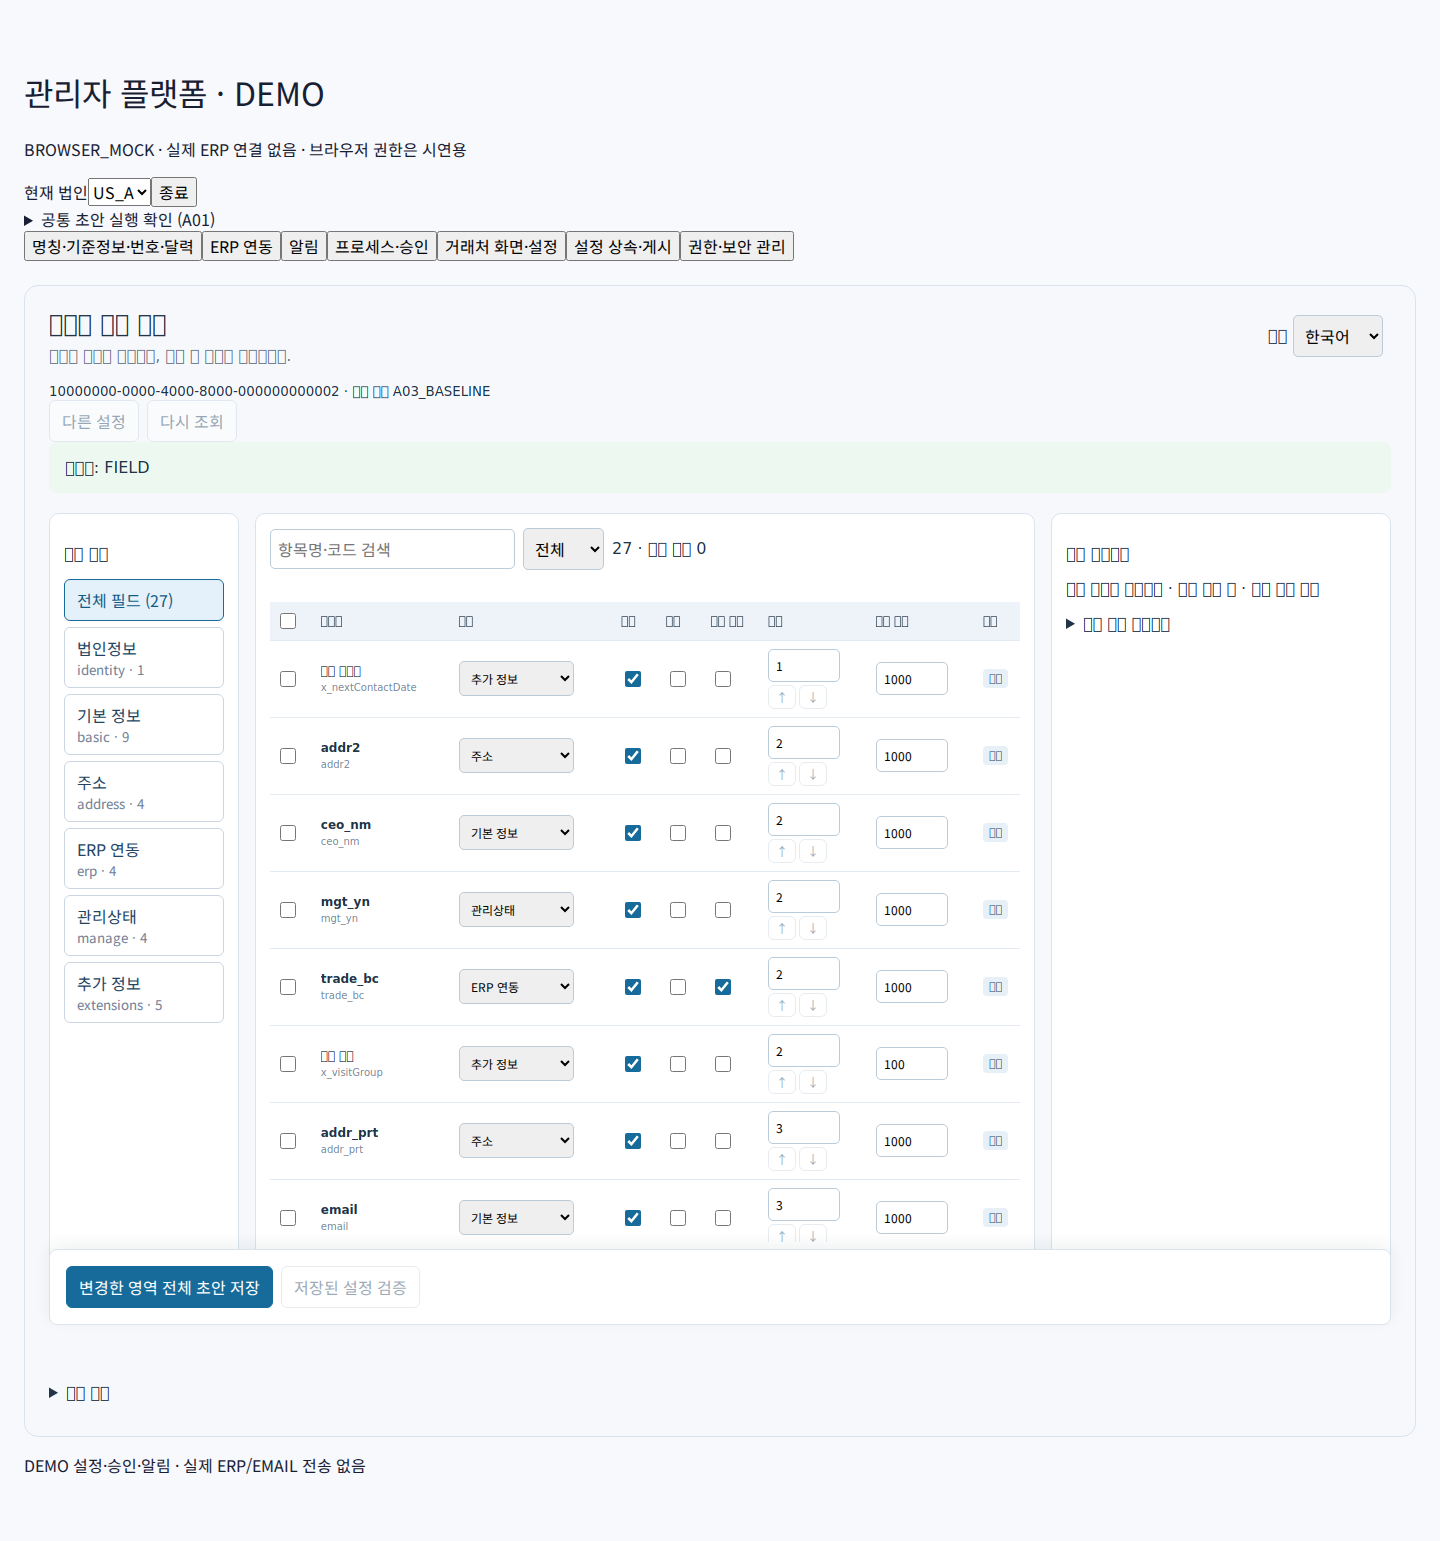
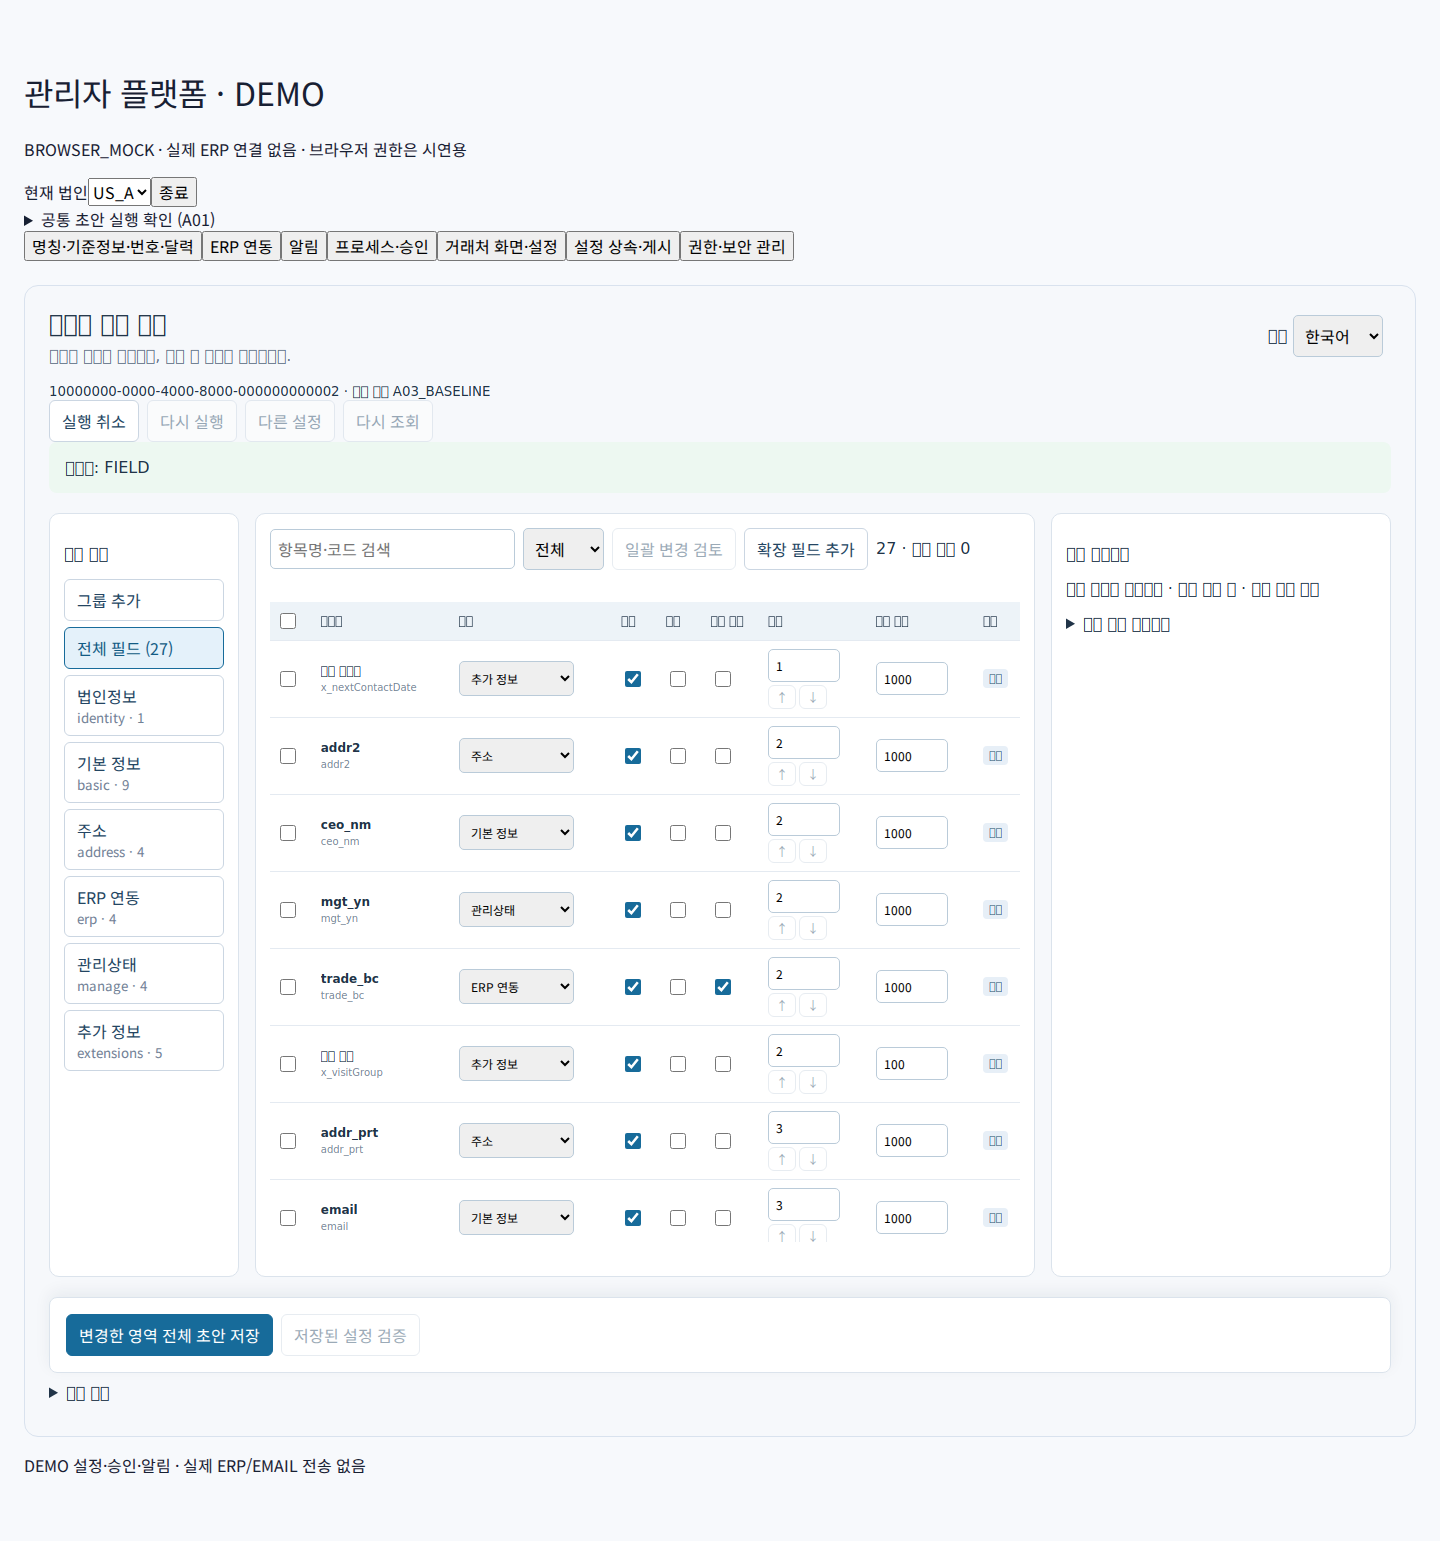
feat(admin): U03 atomic bulk edits and group operations

diff --git a/frontend/src/admin/AccountDesigner.tsx b/frontend/src/admin/AccountDesigner.tsx
@@ -8,6 +8,7 @@ import {DesignerWorkspace,parentConfig} from './designer/model';
 import {FieldGrid} from './designer/FieldGrid';
 import {FieldDetailPanel} from './designer/FieldDetailPanel';
 import {Lang,text,fieldLabel} from './designer/labels';
+import {BulkPanel,GroupPanel,AddFieldPanel} from './designer/EditActions';
 import {SyntheticPreview} from './SyntheticPreview';
 import './designer/designer.css';
 const advancedPaths=['features','menus','rules','conditions','list-views','actions'];
@@ -17,7 +18,7 @@ export function AccountDesigner({client,companyId}:{client:HttpAdminClient;compa
 }
 function DesignerEditor({client,companyId,advanced}:{client:HttpAdminClient;companyId:string;advanced:()=>void}){
  const w=useMemo(()=>new DesignerWorkspace(client,companyId),[client,companyId]);useSyncExternalStore(w.subscribe,w.snapshot);
- const [lang,setLang]=useState<Lang>('ko-KR'),[group,setGroup]=useState(''),[search,setSearch]=useState(''),[filter,setFilter]=useState('any'),[selected,setSelected]=useState<string[]>([]),[detail,setDetail]=useState(''),[mobile,setMobile]=useState('fields');const t=text(lang);
+ const [lang,setLang]=useState<Lang>('ko-KR'),[group,setGroup]=useState(''),[search,setSearch]=useState(''),[filter,setFilter]=useState('any'),[selected,setSelected]=useState<string[]>([]),[detail,setDetail]=useState(''),[mobile,setMobile]=useState('fields'),[action,setAction]=useState('');const t=text(lang);
  useEffect(()=>{void w.load().catch(e=>w.fail(e));return()=>w.dispose();},[w]);
  useEffect(()=>setSelected([]),[group,search,filter]);
  useDirtyEditor(w.dirty.length>0,()=>w.save(),e=>{w.error=e;w.emit();},w.error);
@@ -26,12 +27,15 @@ function DesignerEditor({client,companyId,advanced}:{client:HttpAdminClient;comp
  const c=w.working,sections=c['SCREEN:account'].sections,fields=c['FIELD:account'].fields,rows=fields.filter((f:any)=>(!group||f.sectionId===group)&&(!search||(f.key+' '+fieldLabel(c,f.labelKey,lang)).toLowerCase().includes(search.toLowerCase()))&&(filter==='any'||filter==='changed'&&canonical(f)!==canonical(w.loaded['FIELD:account'].fields.find((x:any)=>x.key===f.key))||filter=== 'visible'&&f.visible)).sort((a:any,b:any)=>a.order-b.order||a.key.localeCompare(b.key));
  const edit=(n:any)=>{try{w.edit(n);}catch(e){w.fail(e);}};
  return <section className="designer-shell configuration-page"><header className="designer-header"><div><h2>{t('title')}</h2><p className="designer-subtitle">{t('subtitle')}</p><small>{companyId} · {t('version')} {w.state.currentVersionId||'A03_BASELINE'}</small></div><label>{t('locale')}<select value={lang} onChange={e=>setLang(e.target.value as Lang)}><option value="ko-KR">{t('korean')}</option><option value="en-US">English</option></select></label></header>
- <div className="designer-toolbar"><button disabled={!!w.dirty.length} onClick={advanced}>{t('advanced')}</button><button disabled={w.busy||!!w.dirty.length} onClick={()=>void run(()=>w.load())}>{t('reload')}</button></div>
+ <div className="designer-toolbar"><button disabled={w.busy||w.blocked||!w.history.length} onClick={()=>w.undo()}>{t('undo')}</button><button disabled={w.busy||w.blocked||!w.future.length} onClick={()=>w.redo()}>{t('redo')}</button><button disabled={!!w.dirty.length} onClick={advanced}>{t('advanced')}</button><button disabled={w.busy||!!w.dirty.length} onClick={()=>void run(()=>w.load())}>{t('reload')}</button></div>
  {w.error&&<div role="alert" className="designer-error">{w.error}</div>}<div role="status" aria-live="polite">{w.dirty.length?t('dirty')+': '+w.dirty.join(', '):t('saved')}</div>
  <nav className="designer-mobile-nav">{['groups','fields','preview'].map(k=><button key={k} aria-pressed={mobile===k} onClick={()=>setMobile(k)}>{t(k)}</button>)}</nav>
- <div className="designer-layout"><aside className={'designer-groups '+(mobile!=='groups'?'mobile-hidden':'')}><h3>{t('groups')}</h3><button aria-pressed={!group} onClick={()=>setGroup('')}>{t('all')} ({fields.length})</button>{sections.map((s:any)=><button key={s.id} aria-pressed={group===s.id} onClick={()=>{setGroup(s.id);setMobile('fields');}}>{fieldLabel(c,s.titleKey,lang)}<small>{s.id} · {fields.filter((f:any)=>f.sectionId===s.id).length}</small></button>)}</aside>
- <div className={'designer-editor '+(mobile!=='fields'?'mobile-hidden':'')}><div className="designer-toolbar"><input aria-label={t('search')} placeholder={t('search')} value={search} onChange={e=>setSearch(e.target.value)}/><select aria-label={t('filter')} value={filter} onChange={e=>setFilter(e.target.value)}>{['any','changed','visible'].map(k=><option key={k} value={k}>{t(k)}</option>)}</select><span>{rows.length} · {t('selected')} {selected.length}</span></div><fieldset disabled={w.busy||w.blocked} style={{border:0,padding:0,minWidth:0}}><FieldGrid config={c} loaded={w.loaded} parent={parentConfig(w.state)} rows={rows} selected={selected} setSelected={setSelected} edit={edit} detail={setDetail} group={group} reorderEnabled={false} lang={lang}/></fieldset></div>
+ <div className="designer-layout"><aside className={'designer-groups '+(mobile!=='groups'?'mobile-hidden':'')}><h3>{t('groups')}</h3><button disabled={w.busy||w.blocked} onClick={()=>setAction('addGroup')}>{t('addGroup')}</button>{group&&<button disabled={w.busy||w.blocked} onClick={()=>setAction('editGroup')}>{t('editGroup')}</button>}<button aria-pressed={!group} onClick={()=>setGroup('')}>{t('all')} ({fields.length})</button>{sections.map((s:any)=><button key={s.id} aria-pressed={group===s.id} onClick={()=>{setGroup(s.id);setMobile('fields');}}>{fieldLabel(c,s.titleKey,lang)}<small>{s.id} · {fields.filter((f:any)=>f.sectionId===s.id).length}</small></button>)}</aside>
+ <div className={'designer-editor '+(mobile!=='fields'?'mobile-hidden':'')}><div className="designer-toolbar"><input aria-label={t('search')} placeholder={t('search')} value={search} onChange={e=>setSearch(e.target.value)}/><select aria-label={t('filter')} value={filter} onChange={e=>setFilter(e.target.value)}>{['any','changed','visible'].map(k=><option key={k} value={k}>{t(k)}</option>)}</select><button disabled={!selected.length||w.busy||w.blocked} onClick={()=>setAction('bulk')}>{t('bulk')}</button><button disabled={w.busy||w.blocked} onClick={()=>setAction('addField')}>{t('addField')}</button><span>{rows.length} · {t('selected')} {selected.length}</span></div><fieldset disabled={w.busy||w.blocked} style={{border:0,padding:0,minWidth:0}}><FieldGrid config={c} loaded={w.loaded} parent={parentConfig(w.state)} rows={rows} selected={selected} setSelected={setSelected} edit={edit} detail={setDetail} group={group} reorderEnabled={!!group&&!search&&filter==='any'} lang={lang}/></fieldset></div>
  <aside className={'designer-preview '+(mobile!=='preview'?'mobile-hidden':'')}><h3>{t('preview')}</h3><p>{t('previewHint')}</p><SyntheticPreview config={c} companyId={companyId}/></aside></div>
  <footer className="designer-footer"><button disabled={w.busy||w.blocked||!w.dirty.length} className="primary" onClick={()=>void run(()=>w.save())}>{t('save')}</button><button disabled={w.busy||w.blocked||!!w.dirty.length} onClick={()=>void run(()=>w.check())}>{t('validate')}</button>{Object.entries(w.statuses).map(([d,s])=><span key={d}>{d}: {t(s)}</span>)}</footer>
+ {action==='bulk'&&<BulkPanel config={c} keys={selected} lang={lang} apply={edit} close={()=>setAction('')}/>}
+ {['addGroup','editGroup'].includes(action)&&<GroupPanel config={c} id={action==='editGroup'?group:''} lang={lang} apply={n=>{edit(n);if(!n['SCREEN:account'].sections.some((g:any)=>g.id===group))setGroup('');}} close={()=>setAction('')}/>}
+ {action==='addField'&&<AddFieldPanel config={c} group={group} lang={lang} apply={edit} close={()=>setAction('')}/>}
  {detail&&<FieldDetailPanel config={c} fieldKey={detail} lang={lang} apply={edit} close={()=>setDetail('')}/>}<details><summary>{t('help')}</summary><p>{t('helpText')}</p></details></section>;
 }

diff --git a/frontend/src/admin/designer/EditActions.tsx b/frontend/src/admin/designer/EditActions.tsx
@@ -1,0 +1,9 @@
+import React,{useState} from 'react';
+import {validateAccountConfig,conditionFields} from '@dio-crm/contracts/admin';
+import {Config,bulkFields,removeGroup} from './model';
+import {Lang,text} from './labels';
+import {Modal} from './Modal';
+export function fieldReferences(c:Config,key:string){return [...c['RULE:account'].rules.filter((r:any)=>conditionFields(r.condition).includes(key)||r.effects.some((e:any)=>e.target===key)).map((r:any)=>'RULE:'+r.id),...c['LIST_VIEW:account'].views.filter((v:any)=>v.columns.includes(key)||v.sort.some((s:any)=>s.field===key)||conditionFields(v.filter).includes(key)).map((v:any)=>'LIST_VIEW:'+v.key),...c['ACTION:account'].actions.filter((a:any)=>conditionFields(a.condition).includes(key)).map((a:any)=>'ACTION:'+a.key)];}
+export function BulkPanel({config,keys,lang,apply,close}:{config:Config;keys:string[];lang:Lang;apply:(c:Config)=>void;close:()=>void}){const t=text(lang),[patch,setPatch]=useState<Record<string,string>>({}),[error,setError]=useState('');return <Modal title={t('bulkTitle')} onClose={close}><p>{t('selected')}: {keys.length}</p><p>{keys.join(', ')}</p>{['visible','required','readOnly'].map(k=><label key={k}>{t(k)}<select aria-label={t(k)} value={patch[k]||'keep'} onChange={e=>setPatch({...patch,[k]:e.target.value})}><option value="keep">{t('keep')}</option><option value="true">{t('yes')}</option><option value="false">{t('no')}</option></select></label>)}{error&&<p role="alert">{error} · {keys.join(', ')}</p>}<button onClick={()=>{try{const p=Object.fromEntries(Object.entries(patch).filter(([,v])=>v!=='keep').map(([k,v])=>[k,v==='true']));if(Object.keys(p).length)apply(bulkFields(config,keys,p));close();}catch(e){setError((e as Error).message);}}}>{t('apply')}</button><button onClick={close}>{t('cancel')}</button></Modal>;}
+export function GroupPanel({config,id,lang,apply,close}:{config:Config;id:string;lang:Lang;apply:(c:Config)=>void;close:()=>void}){const t=text(lang),s=config['SCREEN:account'],old=s.sections.find((g:any)=>g.id===id),[row,setRow]=useState(old?{...old}:{id:'group_'+Date.now().toString(36),tabId:s.tabs[0].id,titleKey:'group.new',order:100,columns:2}),[target,setTarget]=useState(''),[error,setError]=useState('');const commit=(n:Config)=>{try{validateAccountConfig(n);apply(n);close();}catch(e){setError((e as Error).message);}};return <Modal title={t(old?'editGroup':'addGroup')} onClose={close}>{['id','titleKey','order','columns','tabId'].map(k=><label key={k}>{t(({id:'key',titleKey:'groupTitle',tabId:'tab'} as any)[k]||k)}{k==='tabId'?<select aria-label={t('tab')} value={row.tabId} onChange={e=>setRow({...row,tabId:e.target.value})}>{s.tabs.map((v:any)=><option key={v.id}>{v.id}</option>)}</select>:<input aria-label={t(({id:'key',titleKey:'groupTitle'} as any)[k]||k)} disabled={k==='id'&&!!old} type={['order','columns'].includes(k)?'number':'text'} value={row[k]} onChange={e=>setRow({...row,[k]:['order','columns'].includes(k)?Number(e.target.value):e.target.value})}/>}</label>)}{error&&<p role="alert">{error}</p>}<button onClick={()=>{const n=structuredClone(config);n['SCREEN:account'].sections=old?s.sections.map((g:any)=>g.id===id?row:g):[...s.sections,row];commit(n);}}>{t('apply')}</button>{old&&<><label>{t('target')}<select aria-label={t('target')} value={target} onChange={e=>setTarget(e.target.value)}><option value="">{t('unset')}</option>{s.sections.filter((g:any)=>g.id!==id).map((g:any)=><option key={g.id}>{g.id}</option>)}</select></label><button onClick={()=>{try{commit(removeGroup(config,id,target));}catch(e){setError((e as Error).message);}}}>{t('removeGroup')}</button></>}<button onClick={close}>{t('cancel')}</button></Modal>;}
+export function AddFieldPanel({config,group,lang,apply,close}:{config:Config;group:string;lang:Lang;apply:(c:Config)=>void;close:()=>void}){const t=text(lang),[key,setKey]=useState('x_'),[type,setType]=useState('text'),[label,setLabel]=useState(''),[values,setValues]=useState('NORMAL,HIGH'),[error,setError]=useState('');return <Modal title={t('addField')} onClose={close}><label>{t('key')}<input aria-label={t('key')} value={key} onChange={e=>setKey(e.target.value)}/></label><label>{t('labelKey')}<input aria-label={t('labelKey')} value={label} onChange={e=>setLabel(e.target.value)}/></label><label>{t('type')}<select aria-label={t('type')} value={type} onChange={e=>setType(e.target.value)}>{['text','decimal','date','boolean','enum'].map(k=><option key={k}>{k}</option>)}</select></label>{type==='enum'&&<label>{t('enumValues')}<input aria-label={t('enumValues')} value={values} onChange={e=>setValues(e.target.value)}/></label>}{error&&<p role="alert">{error}</p>}<button onClick={()=>{try{if(!/^x_[a-zA-Z0-9_]+$/.test(key)||config['FIELD:account'].fields.some((f:any)=>f.key===key))throw Error('EXTENSION_KEY_INVALID');const n=structuredClone(config),d={key,type,labelKey:label||key,nullable:true,active:true,searchable:true,...(type==='text'?{maxLength:100}:type==='decimal'?{precision:18,scale:4}:type==='enum'?{enumValues:values.split(',').map(v=>v.trim())}:{})};n['FIELD:account'].extensionDefinitions.push(d);n['FIELD:account'].fields.push({key,sectionId:group||config['SCREEN:account'].sections[0].id,visible:true,required:false,readOnly:false,labelKey:d.labelKey,order:100,maxLength:100});validateAccountConfig(n);apply(n);close();}catch(e){setError((e as Error).message);}}}>{t('apply')}</button><button onClick={close}>{t('cancel')}</button></Modal>;}

diff --git a/frontend/src/admin/designer/FieldDetailPanel.tsx b/frontend/src/admin/designer/FieldDetailPanel.tsx
@@ -1,9 +1,11 @@
 import React,{useState} from 'react';
 import {Config,updateField} from './model';
 import {Lang,text,fieldLabel,missingLabel} from './labels';
+import {fieldReferences} from './EditActions';
+import {validateAccountConfig} from '@dio-crm/contracts/admin';
 import {Modal} from './Modal';
 export function FieldDetailPanel({config,fieldKey,lang,apply,close}:{config:Config;fieldKey:string;lang:Lang;apply:(c:Config)=>void;close:()=>void}){
- const t=text(lang),original=config['FIELD:account'].fields.find((f:any)=>f.key===fieldKey),[field,setField]=useState({...original}),def=config['FIELD:account'].extensionDefinitions.find((d:any)=>d.key===fieldKey),type=def?.type||'text';
+ const [error,setError]=useState('');const t=text(lang),original=config['FIELD:account'].fields.find((f:any)=>f.key===fieldKey),[field,setField]=useState({...original}),def=config['FIELD:account'].extensionDefinitions.find((d:any)=>d.key===fieldKey),type=def?.type||'text';
  const patch=(p:any)=>setField({...field,...p});
- return <Modal title={t('fieldDetail')+' · '+fieldKey} onClose={close}><p>{t('key')}: <code>{fieldKey}</code></p><label>{t('labelKey')}<input aria-label={t('labelKey')} value={field.labelKey} onChange={e=>patch({labelKey:e.target.value})}/></label><p>{t('name')}: {fieldLabel(config,field.labelKey,lang)} {missingLabel(config,field.labelKey,lang)&&<span role="status">{t('missing')}</span>}</p><label>{t('useDefault')}<input type="checkbox" checked={field.default!==undefined} onChange={e=>{const next={...field};if(e.target.checked)next.default=type==='boolean'?false:type==='decimal'?'0':'';else delete next.default;setField(next);}}/></label>{field.default!==undefined&&(type==='boolean'?<label>{t('default')}<input aria-label={t('default')} type="checkbox" checked={field.default} onChange={e=>patch({default:e.target.checked})}/></label>:<label>{t('default')}<input aria-label={t('default')} value={String(field.default)} onChange={e=>patch({default:e.target.value})}/></label>)}<p>{t('type')}: {type}</p><button onClick={()=>{const next=updateField(config,fieldKey,field);next['FIELD:account'].fields=next['FIELD:account'].fields.map((f:any)=>f.key===fieldKey?field:f);apply(next);close();}}>{t('apply')}</button><button onClick={close}>{t('cancel')}</button></Modal>;
+ return <Modal title={t('fieldDetail')+' · '+fieldKey} onClose={close}><p>{t('key')}: <code>{fieldKey}</code></p><label>{t('labelKey')}<input aria-label={t('labelKey')} value={field.labelKey} onChange={e=>patch({labelKey:e.target.value})}/></label><p>{t('name')}: {fieldLabel(config,field.labelKey,lang)} {missingLabel(config,field.labelKey,lang)&&<span role="status">{t('missing')}</span>}</p><label>{t('useDefault')}<input type="checkbox" checked={field.default!==undefined} onChange={e=>{const next={...field};if(e.target.checked)next.default=type==='boolean'?false:type==='decimal'?'0':'';else delete next.default;setField(next);}}/></label>{field.default!==undefined&&(type==='boolean'?<label>{t('default')}<input aria-label={t('default')} type="checkbox" checked={field.default} onChange={e=>patch({default:e.target.checked})}/></label>:<label>{t('default')}<input aria-label={t('default')} value={String(field.default)} onChange={e=>patch({default:e.target.value})}/></label>)}<p>{t('type')}: {type}</p><p>{t('references')}: {fieldReferences(config,fieldKey).join(', ')||'—'}</p>{error&&<p role="alert">{error}</p>}{def&&<button disabled={!def.active} onClick={()=>{try{if(fieldReferences(config,fieldKey).length)throw Error('FIELD_IN_USE');const n=structuredClone(config);n['FIELD:account'].extensionDefinitions.find((d:any)=>d.key===fieldKey).active=false;validateAccountConfig(n);apply(n);close();}catch(e){setError((e as Error).message);}}}>{t('deactivate')}</button>}<button onClick={()=>{const next=updateField(config,fieldKey,field);next['FIELD:account'].fields=next['FIELD:account'].fields.map((f:any)=>f.key===fieldKey?field:f);apply(next);close();}}>{t('apply')}</button><button onClick={close}>{t('cancel')}</button></Modal>;
 }

diff --git a/docs/admin-platform/implementation/ui-improvement/U03-report.md b/docs/admin-platform/implementation/ui-improvement/U03-report.md
@@ -1,0 +1,7 @@
+# U03 — 일괄 편집·그룹·순서
+
+선택 행의 표시/필수/읽기 전용을 유지·예·아니오로 검토 후 원자적으로 로컬 적용한다. 검색/그룹/필터 변경 시 선택을 해제하며 현재 결과만 전체 선택한다. 단일 그룹·검색 없음에서 드래그 및 위/아래 이동 제공. 실행 취소·재실행은 작업본 이력 50개이며 저장 성공 후 이력을 정리한다.
+
+그룹 추가·수정·제거 시 대상 그룹으로 필드를 이동한다. 확장 필드는 정의와 배치를 함께 추가한다. 비활성화는 정의를 보존하고 규칙·목록·액션 참조가 있으면 차단한다.
+
+검증: frontend build PASS, designer-unit 6/6 PASS(필수 불변 일괄 변경 원자성, 고아 필드 없는 그룹 이동, stable-key 순서 포함). 두 모드 UI에서 필터 선택 해제, 10행 일괄 변경·한 번에 undo/redo, name 포함 숨김 전부 취소, 확장 필드 생성/비활성화 PASS. 명령 `CHROMIUM_PATH=/tmp/ui-browser/chromium pnpm test:admin:designer-ui`.
